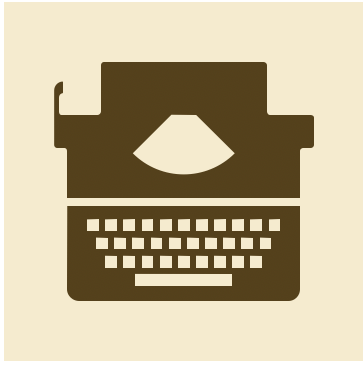
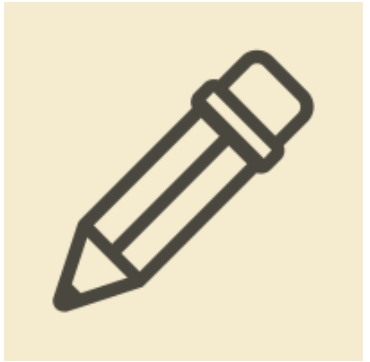
edit index page icens and update edit image

diff --git a/templates/show_photos.template.html b/templates/show_photos.template.html
@@ -21,18 +21,92 @@
       
     </ul>
 
-	<form class="form-inline my-2 my-lg-0">
-	
-		<input type="text" placeholder="Enter Search Terms" name="search-terms" class="form-control nav-text"/>
-		<input type="submit" value="Search" class="ml-3 form-control btn-custom"/>
-	    </form>
+
   </div>
 </nav>
 
 
 <h1>#Gallery</h1>
+
 <button onclick="topFunction()" id="myBtn" title="Go to top">Return to Top</button>
 
+<div class="col">
+<form class="form-inline my-lg-0">
+        <div class="row">
+         <a class="btn btn-custom4 ml-3" data-toggle="collapse" href="#collapseExample" role="button" aria-expanded="false" aria-controls="collapseExample">Select a Photography Category >>
+  </a>
+<div class="collapse" id="collapseExample">
+  <div class="card card-body ml-3">
+            <label class="container2">Wedding
+        <input type="checkbox" name="type_wedding">
+        <span class="checkmark"></span>
+        </label>
+        <label class="container2">Event
+        <input type="checkbox" name="type_event">
+        <span class="checkmark"></span>
+        </label>
+        <label class="container2">Portrait
+        <input type="checkbox" name="type_portrait">
+        <span class="checkmark"></span>
+        </label>
+        <label class="container2">Product
+        <input type="checkbox" name="type_product">
+        <span class="checkmark"></span>
+        </label>
+        <label class="container2">Fine Art
+        <input type="checkbox" name="type_fineart">
+        <span class="checkmark"></span>
+        </label>
+        <label class="container2">Fashion
+        <input type="checkbox" name="type_fashion">
+        <span class="checkmark"></span>
+        </label>
+        <label class="container2">Artitectural
+        <input type="checkbox" name="type_artitectural">
+        <span class="checkmark"></span>
+        </label>
+        <label class="container2">Travel
+        <input type="checkbox" name="type_travel">
+        <span class="checkmark"></span>
+        </label>
+        <label class="container2">Photojournalism
+        <input type="checkbox" name="type_photojournalism">
+        <span class="checkmark"></span>
+        </label>
+        <label class="container2">Lifestyle
+        <input type="checkbox" name="type_lifestyle">
+        <span class="checkmark"></span>
+        </label>
+        <label class="container2">Pet
+        <input type="checkbox" name="type_pet">
+        <span class="checkmark"></span>
+        </label>
+        <label class="container2">Sports
+        <input type="checkbox" name="type_Sports">
+        <span class="checkmark"></span>
+        </label>
+        <label class="container2">Aerial
+        <input type="checkbox" name="type_aerial">
+        <span class="checkmark"></span>
+        </label>
+        <label class="container2">Specialty
+        <input type="checkbox" name="type_specialty">
+        <span class="checkmark"></span>
+        </label>
+        <label class="container2">Stock
+        <input type="checkbox" name="type_stock">
+        <span class="checkmark"></span>
+        </label>
+  </div>
+  </div>
+		<p>
+        <input type="text" placeholder="Enter Search Terms" name="search-terms" class="form-control nav-text ml-3"/>
+
+		<input type="submit" value="Search" class="ml-3 form-control btn-custom"/>
+        <p>
+        
+	    </form>
+</div>
 <table class="table mt-2">
     <tbody>
         {%for photo in all_photos %}

diff --git a/static/css/style.css b/static/css/style.css
@@ -33,6 +33,14 @@
     background-color: #f41f4e;
 }
 
+.btn-custom4 {
+    font-family: 'Cormorant Upright', serif;
+    font-size: 18px;
+    color: #574013;
+    background-color: #f6eacb;
+    height: 43px;
+}
+
 body {
   background-color: #e6e2d9;
 }
@@ -146,4 +154,73 @@ h5{
 }
 .box:hover {
   border-radius: 50%;
+}
+
+.container2 {
+  display: block;
+  position: relative;
+  padding-left: 30px;
+  margin-bottom: 12px;
+  cursor: pointer;
+  font-family: 'Cormorant Upright', serif;
+  font-size: 18px;
+  color:  #574013;
+  -webkit-user-select: none;
+  -moz-user-select: none;
+  -ms-user-select: none;
+  user-select: none;
+}
+
+/* Hide the browser's default checkbox */
+.container2 input {
+  position: absolute;
+  opacity: 0;
+  cursor: pointer;
+  height: 0;
+  width: 0;
+}
+
+/* Create a custom checkbox */
+.checkmark {
+  position: absolute;
+  top: 0;
+  left: 8px;
+  height: 18px;
+  width: 18px;
+  background-color: #eee;
+}
+
+/* On mouse-over, add a grey background color */
+.container2:hover input ~ .checkmark {
+  background-color: #ccc;
+}
+
+/* When the checkbox is checked, add a blue background */
+.container2 input:checked ~ .checkmark {
+  background-color: #574013;
+}
+
+/* Create the checkmark/indicator (hidden when not checked) */
+.checkmark:after {
+  content: "";
+  position: absolute;
+  display: none;
+}
+
+/* Show the checkmark when checked */
+.container2 input:checked ~ .checkmark:after {
+  display: block;
+}
+
+/* Style the checkmark/indicator */
+.container2 .checkmark:after {
+  left: 9px;
+  top: 5px;
+  width: 5px;
+  height: 10px;
+  border: solid white;
+  border-width: 0 3px 3px 0;
+  -webkit-transform: rotate(45deg);
+  -ms-transform: rotate(45deg);
+  transform: rotate(45deg);
 }

diff --git a/templates/index.template.html b/templates/index.template.html
@@ -34,17 +34,16 @@
 		                    </a>
 		
 								<div class="row justify-content-md-center mt-3">
-									<div class="col col-lg-3">
-										<a href="{{ url_for('show_all_photos')}}"
-											class="text-secondary font-italic nav-text">#View Gallery</a>
+									<div class="col col-lg-3 pt-2">
+                                    <a href="{{ url_for('show_all_photos')}}" class="btn btn-secondary font-italic">View Gallery</a>
 									</div>
-									<div class="col-md-auto">
+									<div class="col-md-auto pt-2">
 										<a href="{{ url_for('create_photo')}}"
-											class="text-secondary font-italic nav-text">+Add</a>
+											class="btn btn-secondary font-italic">+Add</a>
 									</div>
-									<div class="col col-lg-3">
+									<div class="col col-lg-3 pt-2">
 										<a href="{{ url_for('genre')}}"
-											class="text-secondary font-italic nav-text">#Photography
+											class="btn btn-secondary font-italic">#Photography
 											Genre</a>
 									</div>
 								</div>

diff --git a/static/css/index.css b/static/css/index.css
@@ -14,6 +14,15 @@
     color: #5e5e5e;
 }
 
+.btn-secondary{
+    font-family: 'Cormorant Upright', serif;
+    font-size: 18px;
+    font-style: normal;
+    background-color:rgba(255,255,255,0.5);
+    color: #5e5e5e;
+    border: none;
+}
+
 .center-logo {
   display: flex;
   align-items: center;

diff --git a/app.py b/app.py
@@ -52,6 +52,38 @@ def show_all_photos():
     if search_type is not None and search_type is not False:
         criteria['type.name'] = "Fine Art Photography"
 
+    search_type = request.args.get('type_fashion')
+    if search_type is not None and search_type is not False:
+        criteria['type.name'] = "Fashion Photography"
+
+    search_type = request.args.get('type_artitectural')
+    if search_type is not None and search_type is not False:
+        criteria['type.name'] = "Artitectural Photography"
+
+    search_type = request.args.get('type_travel')
+    if search_type is not None and search_type is not False:
+        criteria['type.name'] = "Travel Photography"
+
+    search_type = request.args.get('type_photojournalism')
+    if search_type is not None and search_type is not False:
+        criteria['type.name'] = "Photojournalism"
+
+    search_type = request.args.get('type_lifestyle')
+    if search_type is not None and search_type is not False:
+        criteria['type.name'] = "Lifestyle Photography"
+    
+    search_type = request.args.get('type_pet')
+    if search_type is not None and search_type is not False:
+        criteria['type.name'] = "Pet Photography"
+
+    search_type = request.args.get('type_sports')
+    if search_type is not None and search_type is not False:
+        criteria['type.name'] = "Sports Photography"
+
+    search_type = request.args.get('type_aerial')
+    if search_type is not None and search_type is not False:
+        criteria['type.name'] = "Aerial Photography"
+
     all_photos = client[DB_NAME].photo.find(criteria)
     return render_template('show_photos.template.html', all_photos=all_photos)
 
